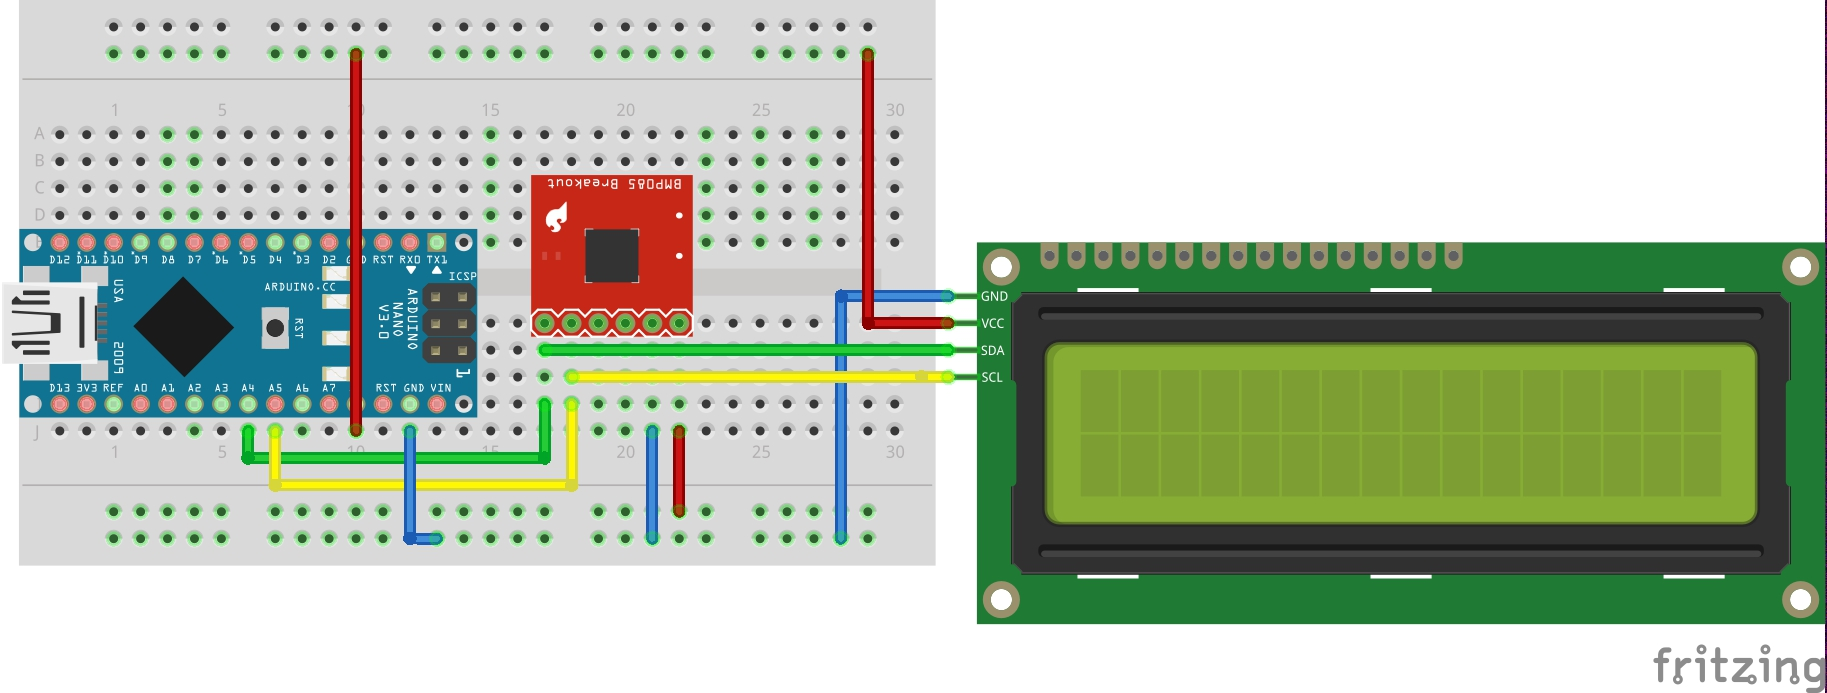
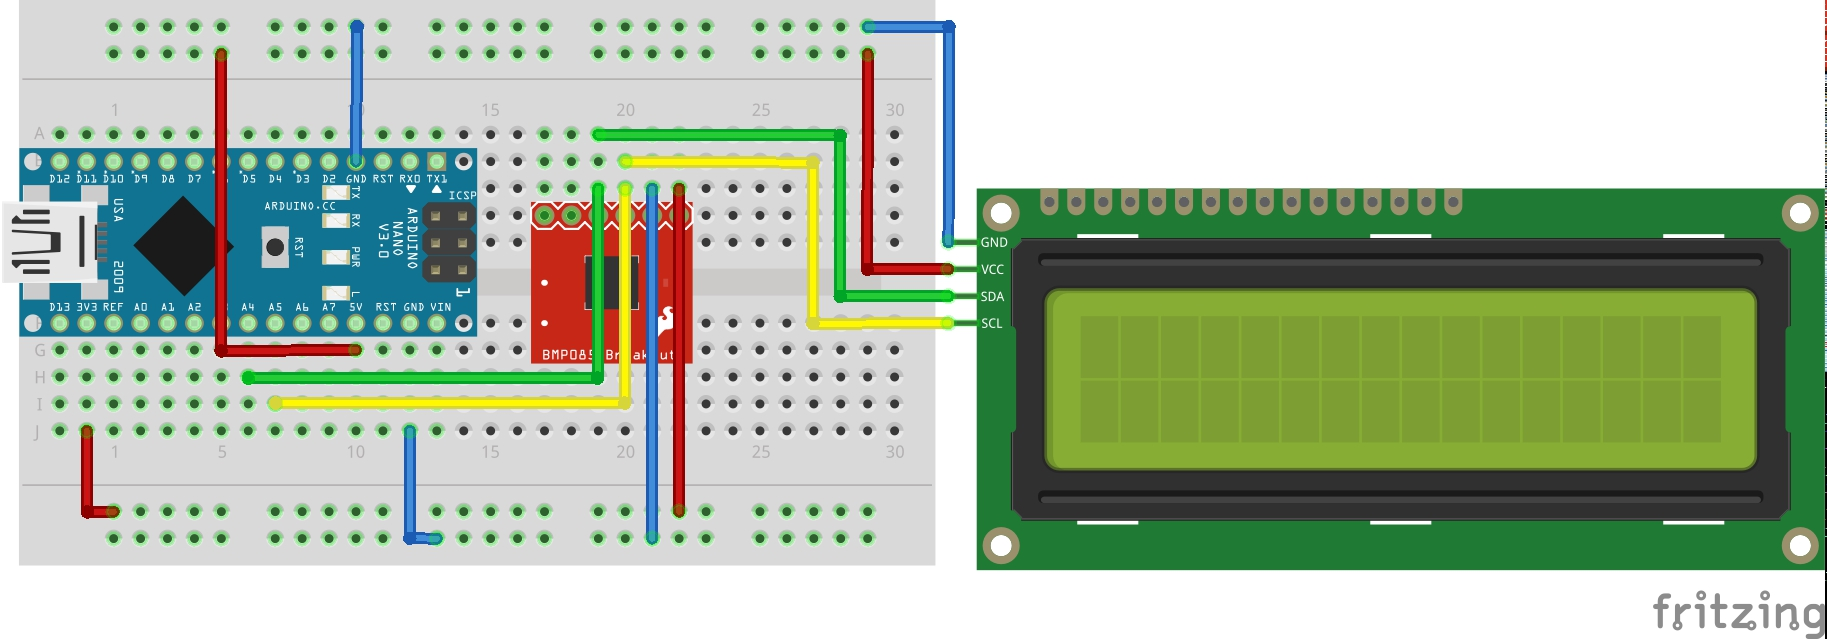
Beispiele hinzugefügt

diff --git a/README.md b/README.md
@@ -186,6 +186,8 @@ Die Funktion "ping_cm()" wird von der Bibliothek bereitgestellt, wodurch sich de
 
 ### 16x2 LCD mit PCF8574 Backplate / Barometer BMP280
 
+![Arduino Nano mit LED](https://github.com/luetzel/arduino_workshop/blob/master/fritzing/17_BMP280_16x2_LCD.jpg)
+
 Zur Verwendung von Bauteilen mit I2C-Anschluss muss die korrekte Adresse im Arduino-Sketch konfiguriert werden. Wenn die Adresse nicht
 bekannt ist kann diese mit der I2C-detect Library ermittelt werden. Die Bibliothek kann über das Menü "Sketch > Bibliothek verwalten
 Bibliothek einbinden" der Arduino-IDE installiert werden. Nach dem Hochladen des mitgelieferten Beispiels "i2cdetect" werden im
@@ -203,21 +205,22 @@ seriellen Monitor die Adressen sämtlicher angeschlossener I2C devices angezeigt
 70: -- -- -- -- -- -- 76 --
 ```
 
-Die 16x2 LC Displays mit PCF8574 Backplate haben entweder die Adresse 0x3F oder 0x27. Der BMP280 Sensor (Barometer) hört auf die
+Die 16x2 LC Displays mit PCF8574-Backplate haben entweder die Adresse 0x3F oder 0x27. Der BMP280 Sensor (Barometer) hört auf die
 Adresse 0x76.
 
-Manchmal kann es erforderlich sein die Adresse in den C-Header Dateien der Bibliotheken einzustellen. Dafür navigiert man in das
-Arduino-Library Verzeichnis (Unter Windows: Dokumente/Arduino/libraries) und öffnet die betroffene Header-Datei. Für den BMP280
-Sensor öffnet man die Datei Adafruit_BMP280.h und trägt in der Zeile
+Manchmal kann es erforderlich sein die Adresse direkt in den C-Header Dateien der Bibliotheken einzustellen. Dafür navigiert man in das
+Arduino-Library Verzeichnis (z.B. unter Windows: Dokumente/Arduino/libraries) und öffnet die betroffene Header-Datei. Für den BMP280
+Sensor ist das die Datei ```Adafruit_BMP280.h```. Dort trägt man in der Zeile
 
 ```
- #define BMP280_ADDRESS                (0x76)
+ #define BMP280_ADDRESS (0x76)
 ```
 
-0x76 statt der voreingestellten Adresse 0x77 ein.
+0x76 statt der vorgegebenen Adresse 0x77 ein.
 
 Beim Anschließen der I2C Bauteile ist auf die Polarität GND/VCC und Spannungsversorgung zu achten (5V bzw **3V3 für das Barometer!**)
 Der SDA Pin des LCD und/oder des Barometers wird mit dem Pin A4 des Arduino Nano verbunden. Der SCL Pin mit dem Pin A5 des Arduino.
+In jedem Fall muss die **Beschriftung der Pins auf dem Bauteil** beachtet werden!
 
 ## Prüfungsaufgabe
 
